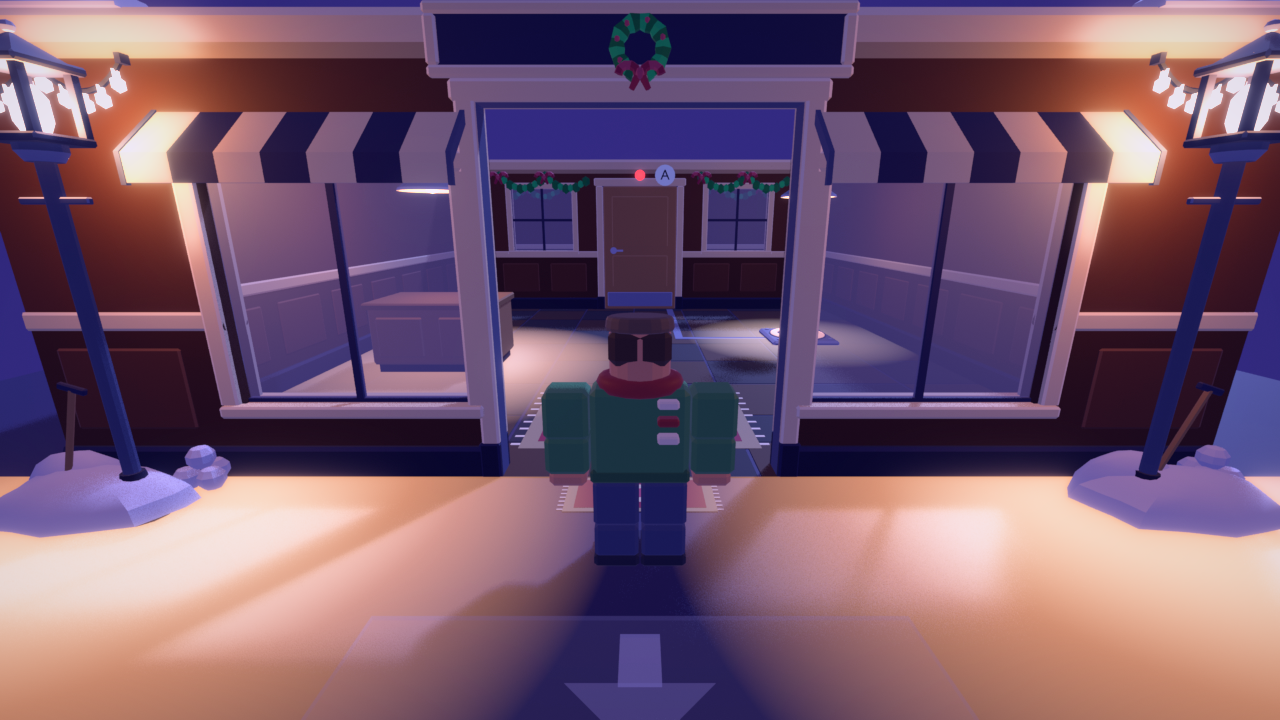
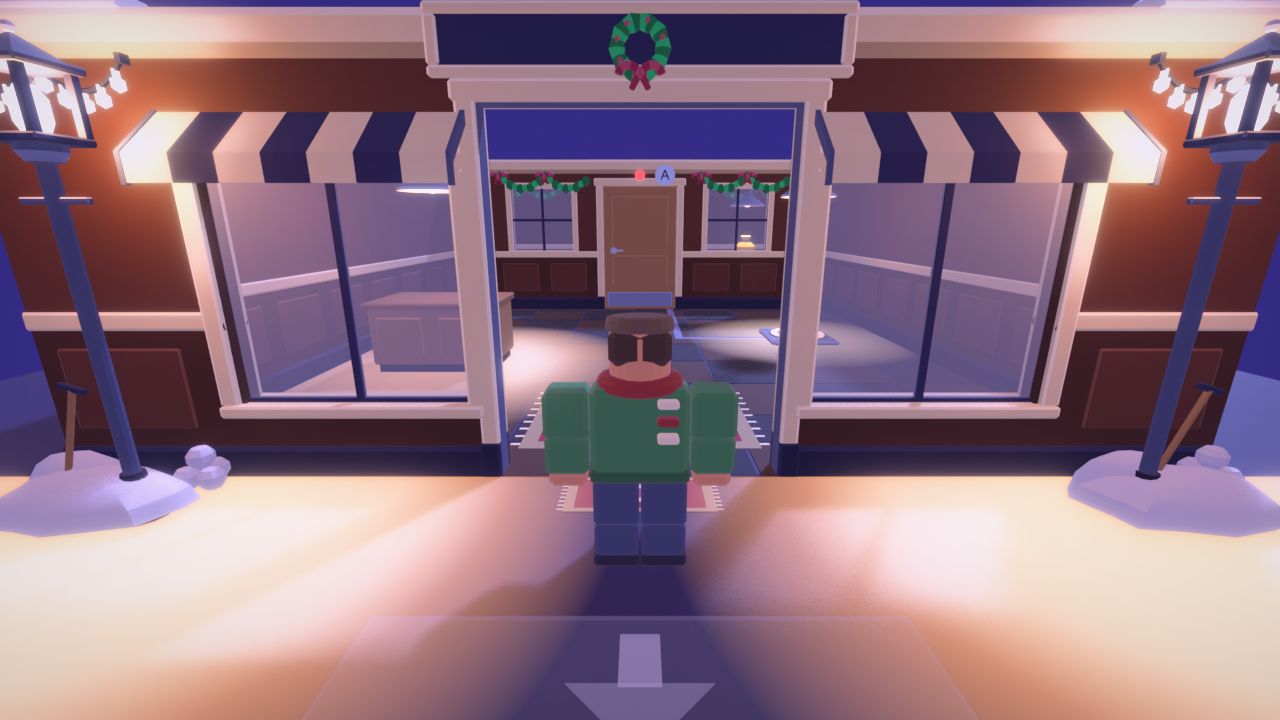
Renders: L1 re-rendered with the moved cash; level_shots gains a first-person spawn shot (1c_spawn_fp)
The Rookie's eyes (3.8 studs), the run-start pitch and FOV from Config.Heist.CAMERA.FP, your body hidden.
From the spawn the cash's top shows over the right window's sill on its safe, under the hero lamp, in
first person and in the classic view (2_objective: the whole bag).

Claude-Session: https://claude.ai/code/session_01QMSuPfsKra1qjqHBWxnEoR

diff --git a/tools/blender/level_shots.py b/tools/blender/level_shots.py
@@ -36,7 +36,7 @@ What is NOT reproduced: Roblox's exact moon direction, ambient occlusion and ton
 solidify shell; the HUD. The Roblox default camera (no zoom is set in src/client: 12.5 studs, FOV 70) with Poppercam
 approximated by a ray test against the greybox colliders. These are audit renders, not captures.
 
-Writes docs/audit/levels/<L>_<id>_{1_spawn,1b_spawn_clones,2_objective,3_plan,3b_plan_solved,4_thumb,5_street}.png
+Writes docs/audit/levels/<L>_<id>_{1_spawn,1b_spawn_clones,1c_spawn_fp,2_objective,3_plan,3b_plan_solved,4_thumb,5_street}.png
 (1, 3 and 5: run 1, nothing held; 1b, 2 and 3b: the solution's clones on their spots, their plates held) and
 contact_sheet.png. --shots 5_street renders only the named shots; --sheet-only rebuilds the contact sheet.
 --golden renders the GOLDEN_FRAMES G1 / G2 approximations with the W4 backdrop (tools/blender/backdrop_shots.py) into
@@ -66,6 +66,7 @@ VISION = (30.0, 45.0)        # Config.Sim GUARD_VISION_RANGE, GUARD_VISION_HALF_
 EYE = 1.5                    # Config.Sim GUARD_EYE_HEIGHT above the root
 DEFAULT_ZOOM, FOV = 12.5, 70.0   # Roblox default camera (src/client sets no zoom; MASTERPLAN 3.5 wants 16)
 BADGE_MAX = 40.0             # glyph badge hidden beyond 40 studs (MASTERPLAN 6.5 #5)
+FP_EYE = 3.8                 # first person: the Rookie's eyes above the floor (CameraDirector "fp", FpMath.eye)
 
 # Where the placeholder golden solutions (tests/sim/Solutions.luau) leave each clone: oldest first.
 SOLUTION = {
@@ -669,6 +670,16 @@ def tp_camera(level, doors, px, pz, yaw, zoom=DEFAULT_ZOOM, pitch=15.0):
     return rb(*cam), rb(*focus), used
 
 
+def fp_camera(level, px, pz, yaw):
+    """First person (CameraDirector "fp") at a spawn: the Rookie's eyes (FP_EYE), looking along `yaw` at the run
+    start's pitch (Config.Heist.CAMERA.FP.START_PITCH). Returns Blender (pos, target)."""
+    fy = level["floorY"]
+    p = math.radians(level["camera"]["FP"]["START_PITCH"])
+    eye = (px, fy + FP_EYE, pz)
+    look = (px - math.sin(yaw) * math.cos(p) * 10, fy + FP_EYE - math.sin(p) * 10, pz - math.cos(yaw) * math.cos(p) * 10)
+    return rb(*eye), rb(*look)
+
+
 def goal_of(level):
     tops = [it for it in level["loot"] if it["top"]]
     return tops[0] if tops else max(level["loot"], key=lambda it: it["value"])
@@ -790,6 +801,9 @@ def shoot(level, W, Hh, samples, only=None):
             pos, tgt = plan_camera(level)
             shots.append(("3b_plan_solved", pos, tgt, 30.0, None, (sp["x"], sp["z"], sp["yaw"])))
         else:
+            # 1c: first person at spawn 1 (the default camera): the Rookie's eyes, the run-start pitch, your body hidden
+            pos, tgt = fp_camera(level, sp["x"], sp["z"], sp["yaw"])
+            shots.append(("1c_spawn_fp", pos, tgt, level["camera"]["FP"]["FOV"], None, (sp["x"], 900.0, sp["yaw"])))
             # 3: top-down plan (B3: FOV 30), run 1 (nothing held, lasers on); 3b: with the solution's clones
             pos, tgt = plan_camera(level)
             shots.append(("3_plan", pos, tgt, 30.0, None, (sp["x"], sp["z"], sp["yaw"])))
